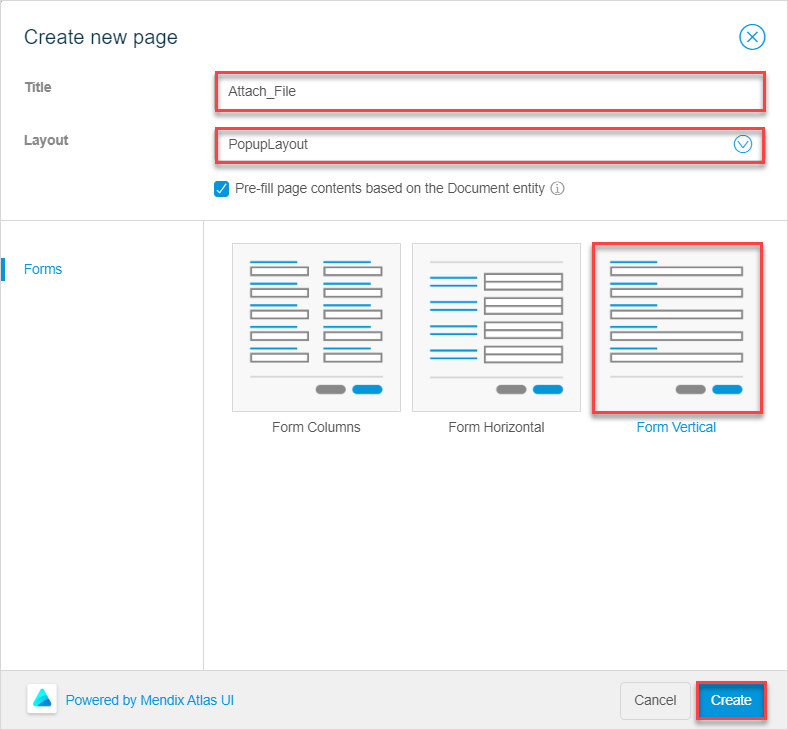
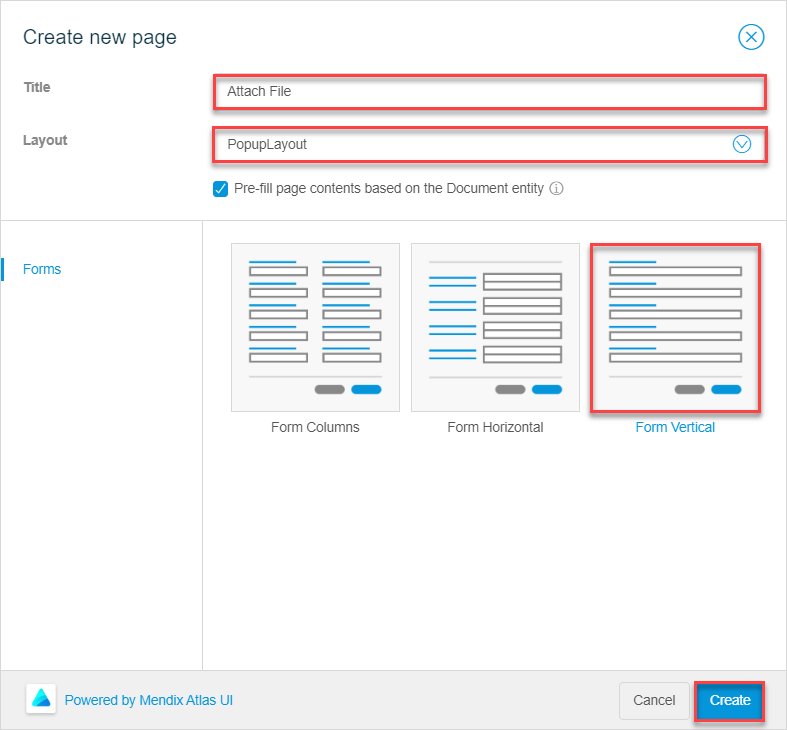
Finish the how-to draft

diff --git a/content/studio-how-to/pages-how-to-attach-files.md b/content/studio-how-to/pages-how-to-attach-files.md
@@ -1,5 +1,5 @@
 ---
-title: "Enable End-Users to Attach and Download Files"
+title: "Configure File Upload and Download"
 category: "Pages"
 description: "Describes how to configure file manager in Mendix Studio."
 menu_order: 50
@@ -8,7 +8,7 @@ tags: ["studio", "pages", "file", "upload files", "attachment", "file manager"]
 
 ## 1 Introduction 
 
-This how-to explains how you can enable your attach and download files. They will be able to attach files from different devices: phone, tablet, or desktop; as well as download attached files from a list.
+This how-to explains how you can enable your end-users to attach and download files. They will be able to attach files from different devices: phone, tablet, or desktop; as well as download attached files from a list.
 
 **This how-to will teach you how to do the following:**
 
@@ -19,19 +19,19 @@ This how-to explains how you can enable your attach and download files. They wil
 
 The how-to describes the following use case: 
 
-You have a company application where company's IT department keep track of assets assigned to employees. You have the **Employee Profile** page with a form (a data view) that has such details as employee's name, department, their email, phone, title, and assets assigned to them (for example, a mobile phone or laptop). This information is filled in and updated by IT administrators:
+Your company has an app where company's IT department keeps track of assets assigned to employees. You have the **Employee Profile** page with a form (a data view) that has such details as employee's name, department, their email, phone, title, and assets assigned to them (for example, a mobile phone or laptop). This information is filled in and updated by IT administrators:
 
 {{% image_container width="600" %}}
 ![Employee Profile Page](attachments/pages-how-to-attach-files/employee-profile-form.png)
 {{% /image_container %}}
 
-Your domain model looks the following way:
+The domain model looks the following way:
 
 {{% image_container width="200" %}}![Domain Model](attachments/pages-how-to-attach-files/domain-model.png){{% /image_container %}}
 
-You would like to add a new functionality: IT administrators should be able to attach files to employee profile, for example, to attach a device's warranty, phone or laptop policy signed by the employee.  
+You would like to add a new functionality: IT administrators should be able to attach files to an employee profile, for example, to attach phone or laptop policy signed by the employee.  
 
-You also would like to enable IT Administrators to download attached file from a list of files, and to delete files from the list if needed. 
+You also would like to enable IT administrators to download the attached file from a list of files. 
 
 ## 2 Prerequisites
 
@@ -42,7 +42,7 @@ Before starting this how-to, make sure you have completed the following prerequi
 
 ## 3 Creating a File Entity
 
-First of all, to be able to attach and download files you need to add a special type of entity to your domain model: a [file entity](/studio/domain-models#entity-types). Do the following:
+First of all, to be able to attach and/or download files you need to add a special type of entity to your domain model: a [file entity](/studio/domain-models#entity-types). Do the following:
 
 1. Open your domain model and open the **Toolbox** tab.
 
@@ -62,7 +62,7 @@ First of all, to be able to attach and download files you need to add a special 
 
 		{{% image_container width="250" %}}![Create Association](attachments/pages-how-to-attach-files/create-association-method-two.png){{% /image_container %}}
 
-Good job! You have created the file entity and associations from it to the **Employee** entity:
+Good job! You have created the file entity and an association from it to the **Employee** entity:
 
 {{% image_container width="600" %}}![Domain Model Configured](attachments/pages-how-to-attach-files/domain-model-configured.png){{% /image_container %}}
 
@@ -72,59 +72,61 @@ A **File Manager** is a widget that allows your end-users to attach and/or downl
 
 {{% image_container width="600" %}}![Employee Profile Page](attachments/pages-how-to-attach-files/employee-profile-form.png){{% /image_container %}}
 
-To solve this, you can add a button which will open a pop-up page where your end-users can upload images. This page will be connected to your current report form over the *Image_Report* association and will upload images as **Image** entity and associated to this specific report. 
+To solve this, you can add a button which will open a pop-up page where your end-users (IT administrators) can upload images. This page will be connected to your current report form over the *Image_Report* association and will upload images as **Image** entity and associated to this specific report. 
 
 Follow the steps below:
 
 1. Open the **Employee Profile** page where IT administrators create and edit information on employees and assets assigned to them. 
 
-2. Open the **Toolbox** and search for **Create Object** button.
+2. Open the **Toolbox** and search for the **Create Object** button.
 
 3. Drag and drop the button above **Save** and **Cancel** buttons:
 
     {{% image_container width="450" %}}![Create Object Button](attachments/pages-how-to-attach-files/create-object-button.png){{% /image_container %}}
 
-4. Open button properties > the **Caption** property and rename it from *New* to *Attach File*.
+4. Open button properties and do the following:
 
-5. Click the **Icon** property. 
+    1. Select the **Caption** property and rename it from *New* to *Attach File*.
 
-6. In the **Select icon** dialog box, search for the *file* icon and select it.
+    2. Click the **Icon** property. 
 
-7. In the button properties, click the **Style** property and change it from **Default** to **Success**. After your changes, the button will look the following way:
+    3. In the **Select icon** dialog box, search for the *file* icon, and click **Select**.
 
-    {{% image_container width="150" %}}![Attach Files](attachments/pages-how-to-attach-files/attach-file-button.png){{% /image_container %}}
+    4. Click the **Style** property and change it from **Default** to **Success**. After your changes, the button will look the following way:
 
-8. In the button properties, click the **Entity** property.
+        {{% image_container width="150" %}}![Attach Files](attachments/pages-how-to-attach-files/attach-file-button.png){{% /image_container %}}
 
-9. In the **Select Entity** dialog box, choose the **Document** entity and click **Select**:
+    5. Click the **Entity** property.
 
-    {{% image_container width="400" %}}![Select File Entity](attachments/pages-how-to-attach-files/select-file-entity.png){{% /image_container %}}
+    6. In the **Select Entity** dialog box, choose the **Document** entity and click **Select**:
 
-10. In the button properties, click **Page**.
+        {{% image_container width="400" %}}![Select File Entity](attachments/pages-how-to-attach-files/select-file-entity.png){{% /image_container %}}
 
-11. In the **Select Page** dialog box, click **New Page**.
+    7. Click the **Page** property.
 
-12. In the **Create new page** dialog box, do the following:
+    8. In the **Select Page** dialog box that opens, click **New Page**.
 
-     1. Set the **Title** to *Attach_File*.
+    9. In the **Create new page** dialog box, do the following:
 
-     2. Set the **Layout** to *PopupLayout*.
+         1. Set the **Title** to *Attach File*.
 
-     3. The **Pre-fill page contents based on the Document entity** option is on, so the page template (Forms) is selected automatically for you. Choose **Form Vertical** and click **Create**.
+         2. Set the **Layout** to *PopupLayout*.
 
-         {{% image_container width="500" %}}![](attachments/pages-how-to-attach-files/create-attach-file-page.png){{% /image_container %}}
+         3. The **Pre-fill page contents based on the Document entity** option is on, so the page template (Forms) is selected automatically for you. Choose **Form Vertical** and click **Create**.
 
-13. A new pop-up page with a preconfigured form (a data view) is created:
+             {{% image_container width="500" %}}![](attachments/pages-how-to-attach-files/create-attach-file-page.png){{% /image_container %}}
 
-     {{% image_container width="500" %}}![Attach Files Page](attachments/pages-how-to-attach-files/attach-files-page.png){{% /image_container %}}
+        4. A new pop-up page with a preconfigured form (a data view) is created:
 
-     As you only need your end-users to attach files on this page, delete **Name** and **Size** text boxes from the data view. 
+             {{% image_container width="500" %}}![Attach Files Page](attachments/pages-how-to-attach-files/attach-file-page.png){{% /image_container %}}
 
-14. Open the **Toolbox**, search for an **File Uploader**, drag and drop it inside the data view. 
+        	 As you only need your end-users to attach files on this page, delete **Name** and **Size** text boxes from the data view. 
+
+        1. Open the **Toolbox**, search for a **File Uploader**, drag and drop it inside the data view. 
 
 You have created a pop-up page that will allow IT administrators to attach files to the employee profile form:
 
-{{% image_container width="450" %}}![Attach Files Page Configured](attachments/pages-how-to-attach-files/attach-files-page-configured.png){{% /image_container %}}
+{{% image_container width="450" %}}![Attach Files Page Configured](attachments/pages-how-to-attach-files/attach-file-page-configured.png){{% /image_container %}}
 
 
 ## 5 Downloading Files
@@ -140,9 +142,7 @@ After your end-users attach the files, it would be nice to display files in a li
 3. Select the list view, open its properties, and do the following:
 
     1. Click the **Entity** property.
-    2. In the **Select Entity** dialog box, choose **Document** and click **Select**. As the list view is placed inside the data view, only files associated with the selected employee will be displayed. :
-
-    	{{% image_container width="400" %}}![Select List View Entity](attachments/pages-how-to-attach-files/select-list-view-entity.png){{% /image_container %}}
+    2. In the **Select Entity** dialog box, choose **Document** and click **Select**.
 
 4. Delete an image and a column it is placed in from the list:
 
@@ -150,18 +150,18 @@ After your end-users attach the files, it would be nice to display files in a li
 
 5. Delete a subtitle in the list saying *Here you can put a subtitle*.
 
-6. Select the **Name** text in the list view and open its properties.
+6. Select the **Name** text in the list view, open its properties, and do the following:
 
     1. In the **Content** property, delete the *Name* text and click **Add attribute**.
-    2. In the **Select Attribute** dialog box, choose the **Name** attribute and click **Select** to display the name of the attached image.
+    2. In the **Select Attribute** dialog box, choose the **Name** attribute and click **Select** to display the name of the attached file.
 
     	{{% image_container width="400" %}}![Select Attribute](attachments/pages-how-to-attach-files/select-attribute.png){{% /image_container %}}
 
 7. Delete the **Details** button in the list view.
 
-8. Open the **Toolbox** and search for **File Downloader**, drag and drop it to the column where the **Details** button was placed. 
+8. Open the **Toolbox** and search for a **File Downloader**, drag and drop it to the column where the **Details** button was placed. 
 
-9. Open the **File Downloader** (**File Manager**) properties and delete the *File* text from the **Label** property.
+9. Open the **File Downloader** (**File Manager**) properties > **Label** property and delete the *File* text from it.
 
 Great job! Now you have the list that shows attached files and your users can download files from this list:
 
@@ -169,4 +169,4 @@ Great job! Now you have the list that shows attached files and your users can do
 
 Congratulations! You have configured the form that allows IT administrators to attach files and displays these files in the list.
 
-[Preview your app](/studio/publishing-app) to test how the file uploading and downloading works. You can also configure a button to attach images instead of images. For more information on files, see [How to Enable End-Users to Attach Images](pages-how-to-attach-images).
+[Preview your app](/studio/publishing-app) to test how the file uploading and downloading works. You can also configure a button to attach images instead of files. For more information, see [How to Enable End-Users to Attach Images](pages-how-to-attach-images).
